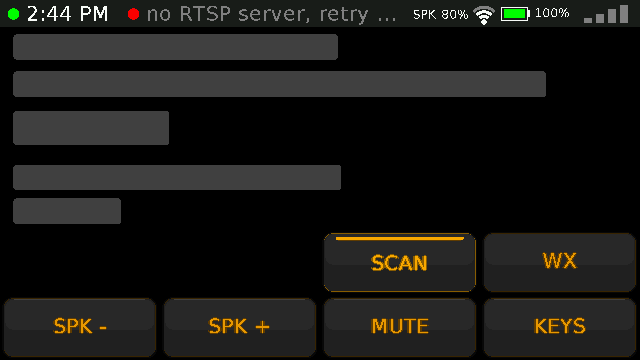
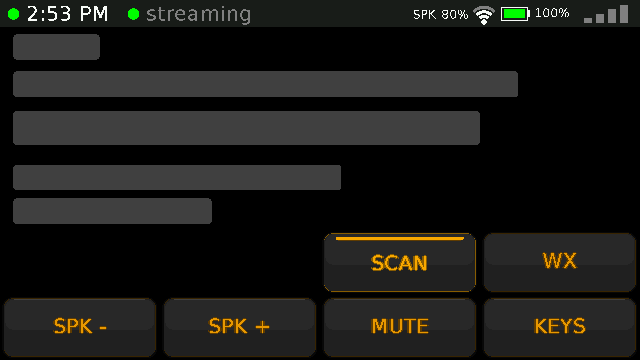
Wiki: Tab5 main-page screenshots retaken with audio streaming

diff --git a/docs/wiki/Home.md b/docs/wiki/Home.md
@@ -680,8 +680,7 @@ The console also accepts these debug inputs:
 Taken from running boards with firmware v2.2.0, using the serial `S` command: the FNK0104N
 (3.5", 480 x 320) and the Tab5 (1280 x 720, shown here at half size). Local channel names,
 talkgroups, frequencies, the Wi-Fi network name and IP addresses are covered with grey bars
-(serial `R`). The red **AUDIO STUCK** key on the Tab5 portrait main page appears only while the
-scanner refuses audio (here because the 3.5" board was the scanner's listener at the time).
+(serial `R`).
 
 ### 15.1 FNK0104N, landscape
 
